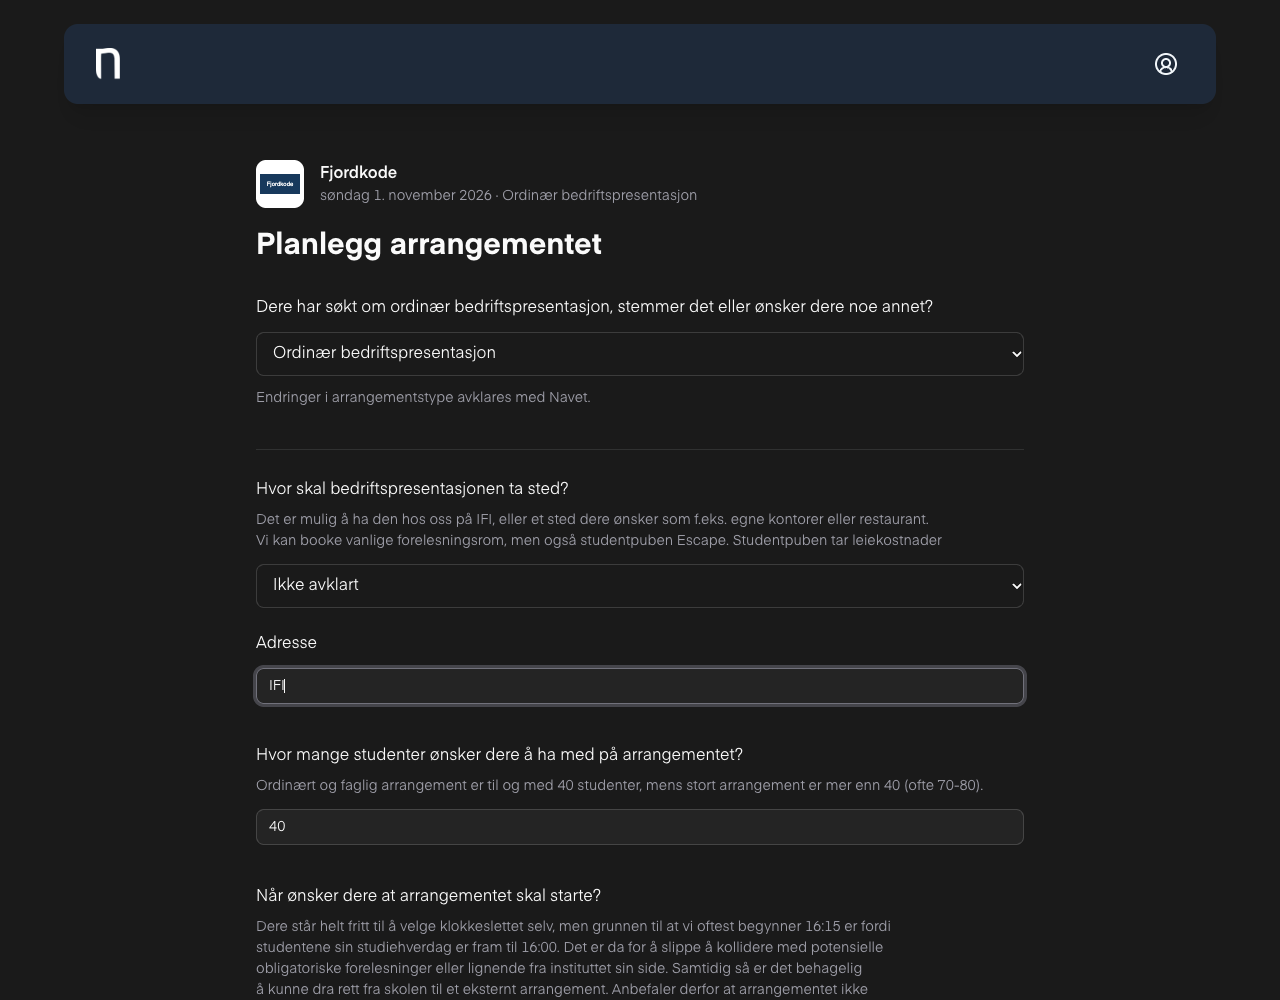
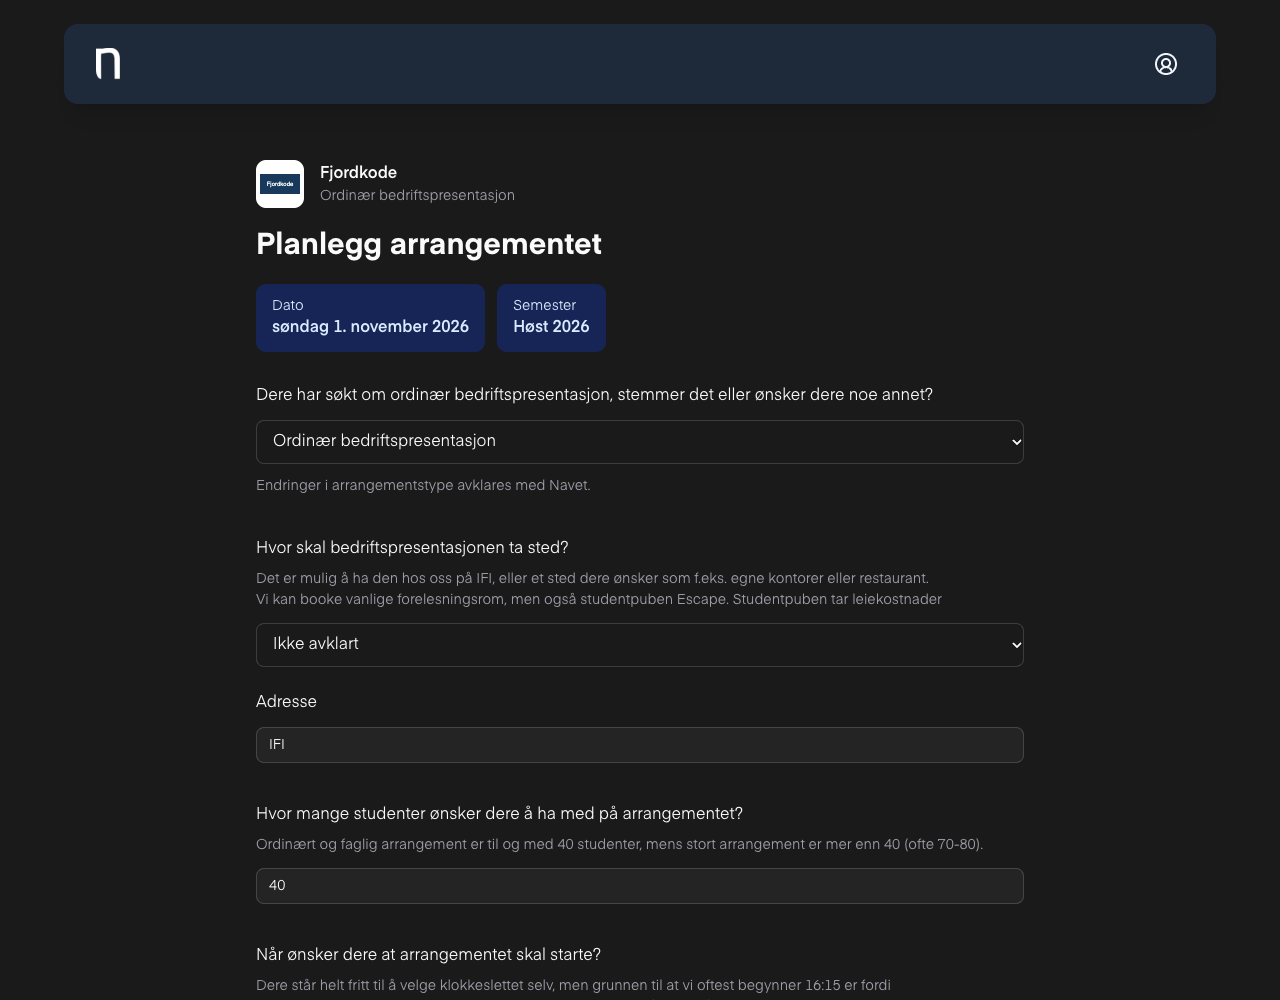
style: highlight event date and semester and remove form dividers

diff --git a/apps/hugin/src/components/event-planning/company-planning.tsx b/apps/hugin/src/components/event-planning/company-planning.tsx
@@ -3,7 +3,7 @@ import { api } from "@workspace/backend/convex/api";
 import { COMPANY_CONTACT_EMAIL } from "@workspace/shared/constants";
 import type { PlanningAnswers } from "@workspace/shared/events/planning";
 import type { EventType } from "@workspace/shared/semester/labels";
-import { formatSemesterDay } from "@workspace/shared/time";
+import { EVENT_SEMESTER_LABELS, eventSemesterOf, formatSemesterDay } from "@workspace/shared/time";
 import { Button } from "@workspace/ui/components/button";
 import { CompanyLogo } from "@workspace/ui/components/company-logo";
 import { EventPlanningForm } from "@workspace/ui/components/event-planning-form";
@@ -28,6 +28,7 @@ function Planning({ token }: Readonly<{ token: string }>) {
 	const [lastAnswers, setLastAnswers] = useState<PlanningAnswers>();
 	if (data === undefined) return <output>Henter arrangementet …</output>;
 	if (!data) return <Unavailable />;
+	const { semester, year } = eventSemesterOf(data.eventStart);
 	return (
 		<div className="mx-auto w-full max-w-3xl py-5 sm:py-8">
 			<header className="mb-8 space-y-5">
@@ -35,14 +36,24 @@ function Planning({ token }: Readonly<{ token: string }>) {
 					<CompanyLogo name={data.companyName} url={data.logoUrl} size="lg" />
 					<div>
 						<p className="font-semibold">{data.companyName}</p>
-						<p className="text-muted-foreground text-sm">
-							{formatSemesterDay(data.eventDate, "long")}
-							<br />
-							{data.packageName}
-						</p>
+						<p className="text-muted-foreground text-sm">{data.packageName}</p>
 					</div>
 				</div>
 				{!sent && <h1 className="font-bold text-3xl">Planlegg arrangementet</h1>}
+				<dl className="flex flex-wrap gap-3">
+					<div className="rounded-lg bg-blue-50 px-4 py-3 text-blue-950 dark:bg-blue-950 dark:text-blue-100">
+						<dt className="text-sm">Dato</dt>
+						<dd className="font-semibold">
+							<time dateTime={data.eventDate}>{formatSemesterDay(data.eventDate, "long")}</time>
+						</dd>
+					</div>
+					<div className="rounded-lg bg-blue-50 px-4 py-3 text-blue-950 dark:bg-blue-950 dark:text-blue-100">
+						<dt className="text-sm">Semester</dt>
+						<dd className="font-semibold">
+							{EVENT_SEMESTER_LABELS[semester]} {year}
+						</dd>
+					</div>
+				</dl>
 			</header>
 			{sent ? (
 				<>

diff --git a/packages/ui/src/components/event-planning-form.tsx b/packages/ui/src/components/event-planning-form.tsx
@@ -197,7 +197,7 @@ export function EventPlanningForm({
 					</Field>
 				)}
 			</form.Field>
-			<section className="space-y-6 border-t pt-7">
+			<section className="space-y-6">
 				{choice(
 					"venue",
 					PLANNING_QUESTIONS.venue.label,
@@ -275,7 +275,7 @@ export function EventPlanningForm({
 			<form.Subscribe selector={(state) => state.values}>
 				{(values) => (
 					<>
-						<section className="space-y-6 border-t pt-7">
+						<section className="space-y-6">
 							{choice(
 								"foodAndDrinks",
 								PLANNING_QUESTIONS.foodAndDrinks.label,
@@ -290,7 +290,7 @@ export function EventPlanningForm({
 							)}
 							{choice("alcohol", "Skal det serveres alkohol?", ANSWER_CHOICES)}
 						</section>
-						<section className="space-y-6 border-t pt-7">
+						<section className="space-y-6">
 							{choice(
 								"ageRestriction",
 								PLANNING_QUESTIONS.ageRestriction.label,
@@ -301,7 +301,7 @@ export function EventPlanningForm({
 							)}
 						</section>
 						<section
-							className="space-y-6 border-t pt-7"
+							className="space-y-6"
 							aria-labelledby={`${prefix}-content-heading`}
 						>
 							<div className="space-y-3">
@@ -314,7 +314,7 @@ export function EventPlanningForm({
 							{text("teaser")}
 							{text("description")}
 						</section>
-						<section className="space-y-6 border-t pt-7">
+						<section className="space-y-6">
 							{choice(
 								"stand",
 								PLANNING_QUESTIONS.stand.label,
@@ -352,7 +352,7 @@ export function EventPlanningForm({
 			{text("notes")}
 
 			{after}
-			<div className="space-y-3 border-t pt-6">
+			<div className="space-y-3">
 				{error && (
 					<p role="alert" className="text-destructive">
 						{error}
